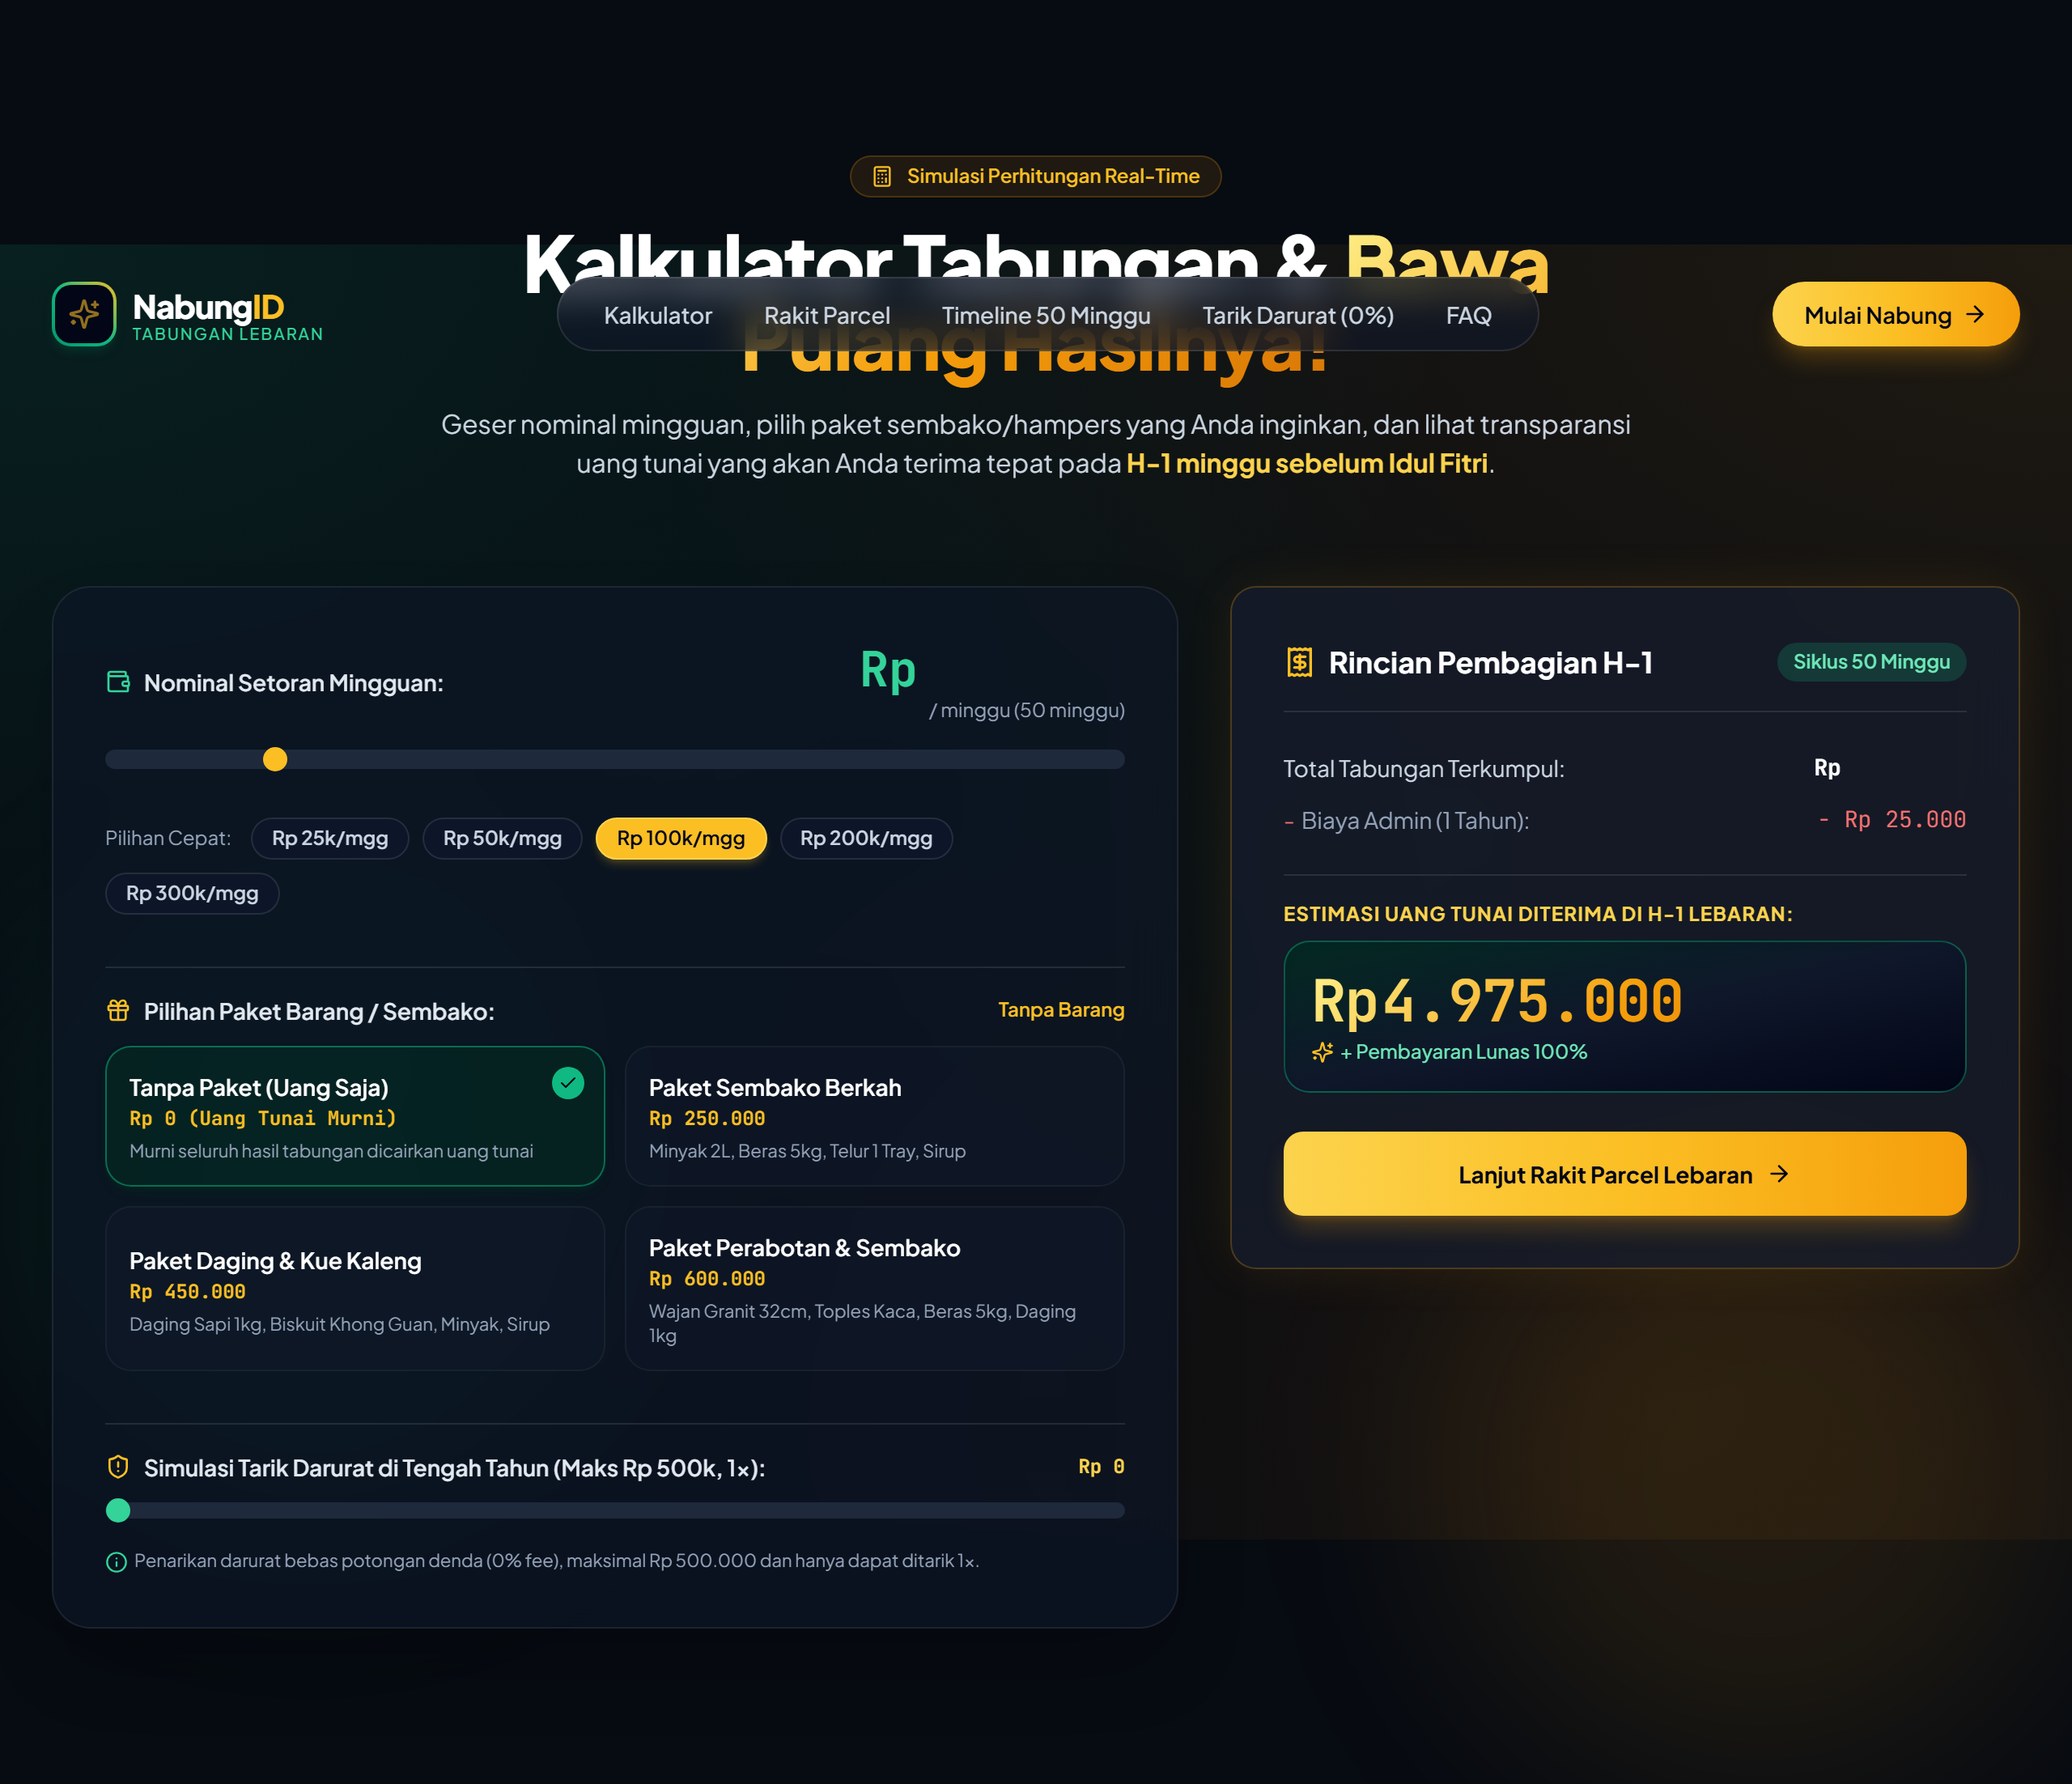
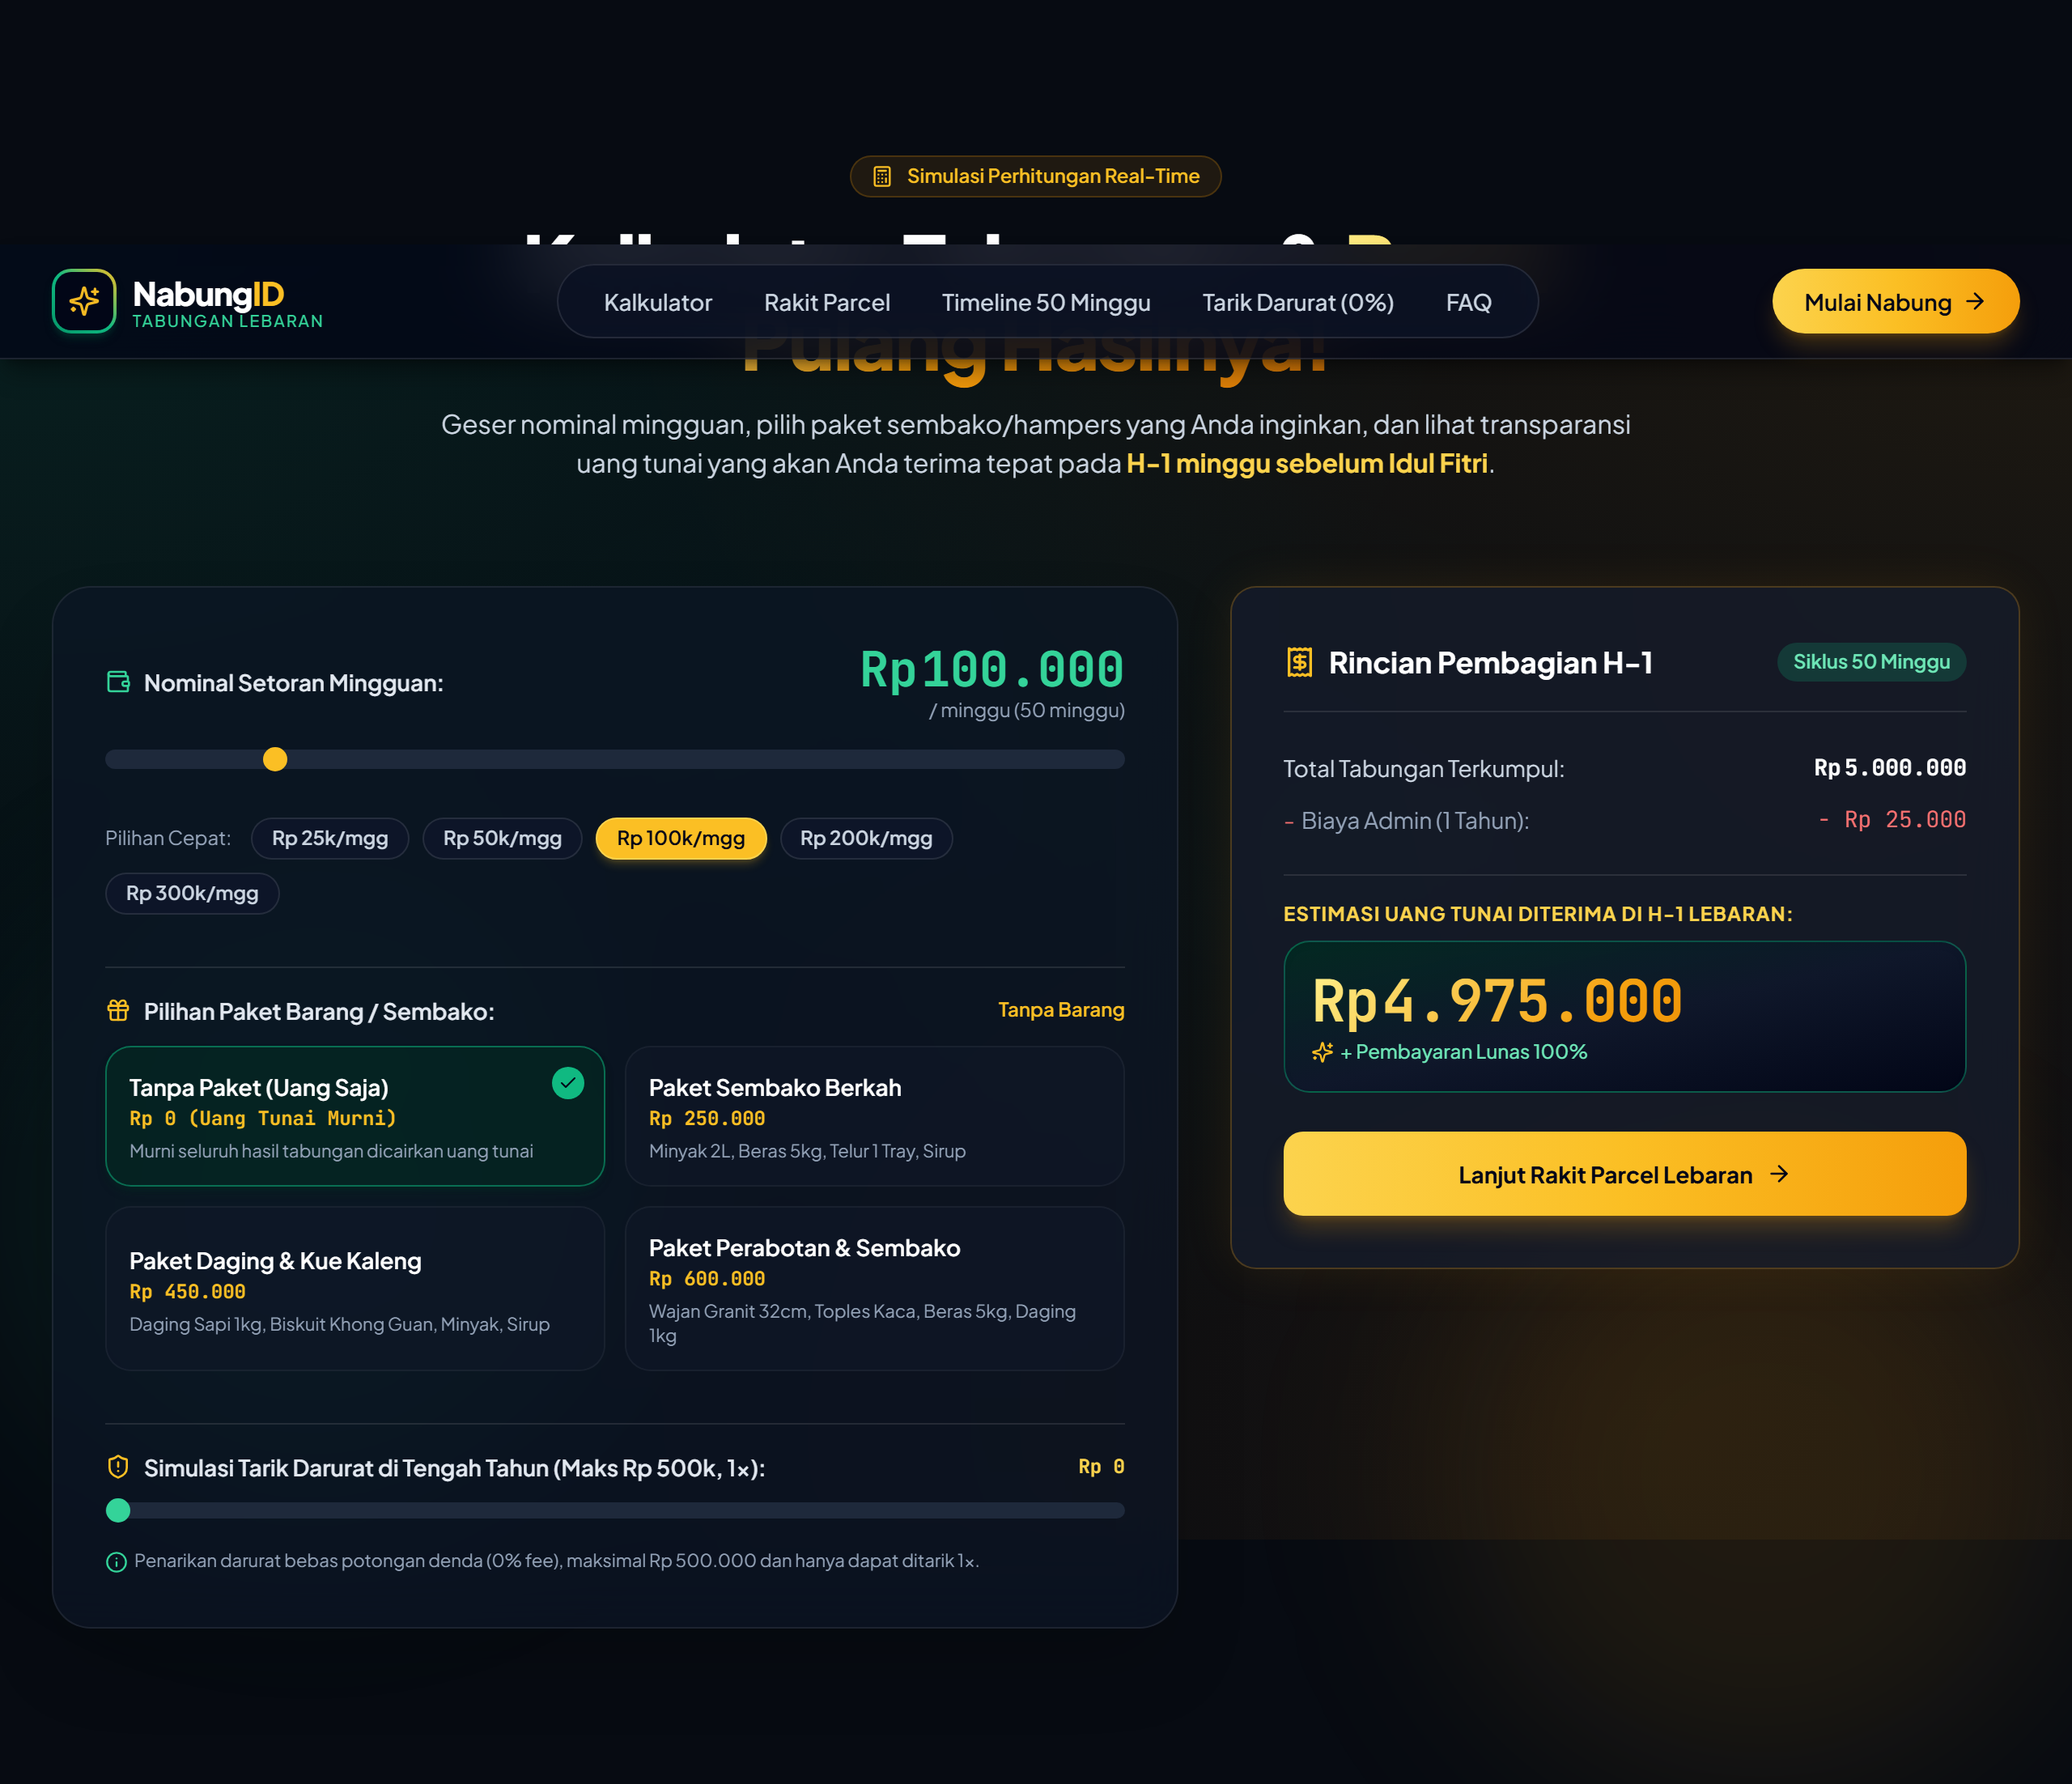
docs: refresh high-res screenshots with complete 3D canvas and animated hero section

diff --git a/scripts/capture-screenshots.js b/scripts/capture-screenshots.js
@@ -24,8 +24,9 @@ async function captureAll() {
   try {
     // 1. Landing Page Hero
     console.log('📸 Capturing 01_landing_hero.png...');
-    await page.goto(BASE_URL, { waitUntil: 'domcontentloaded', timeout: 45000 });
-    await page.waitForTimeout(3000); // allow 3D canvas and animations to settle
+    await page.goto(BASE_URL, { waitUntil: 'domcontentloaded', timeout: 60000 });
+    await page.waitForSelector('h1', { state: 'visible', timeout: 30000 });
+    await page.waitForTimeout(4000); // allow 3D canvas, Framer motion, and background glow to settle
     await page.screenshot({ path: path.join(OUTPUT_DIR, '01_landing_hero.png') });
 
     // 2. Interactive Calculator Section
@@ -33,7 +34,7 @@ async function captureAll() {
     const calculatorEl = page.locator('#kalkulator');
     if (await calculatorEl.count() > 0) {
       await calculatorEl.scrollIntoViewIfNeeded();
-      await page.waitForTimeout(1000);
+      await page.waitForTimeout(2000);
       await calculatorEl.screenshot({ path: path.join(OUTPUT_DIR, '02_calculator.png') });
     } else {
       await page.screenshot({ path: path.join(OUTPUT_DIR, '02_calculator.png') });
